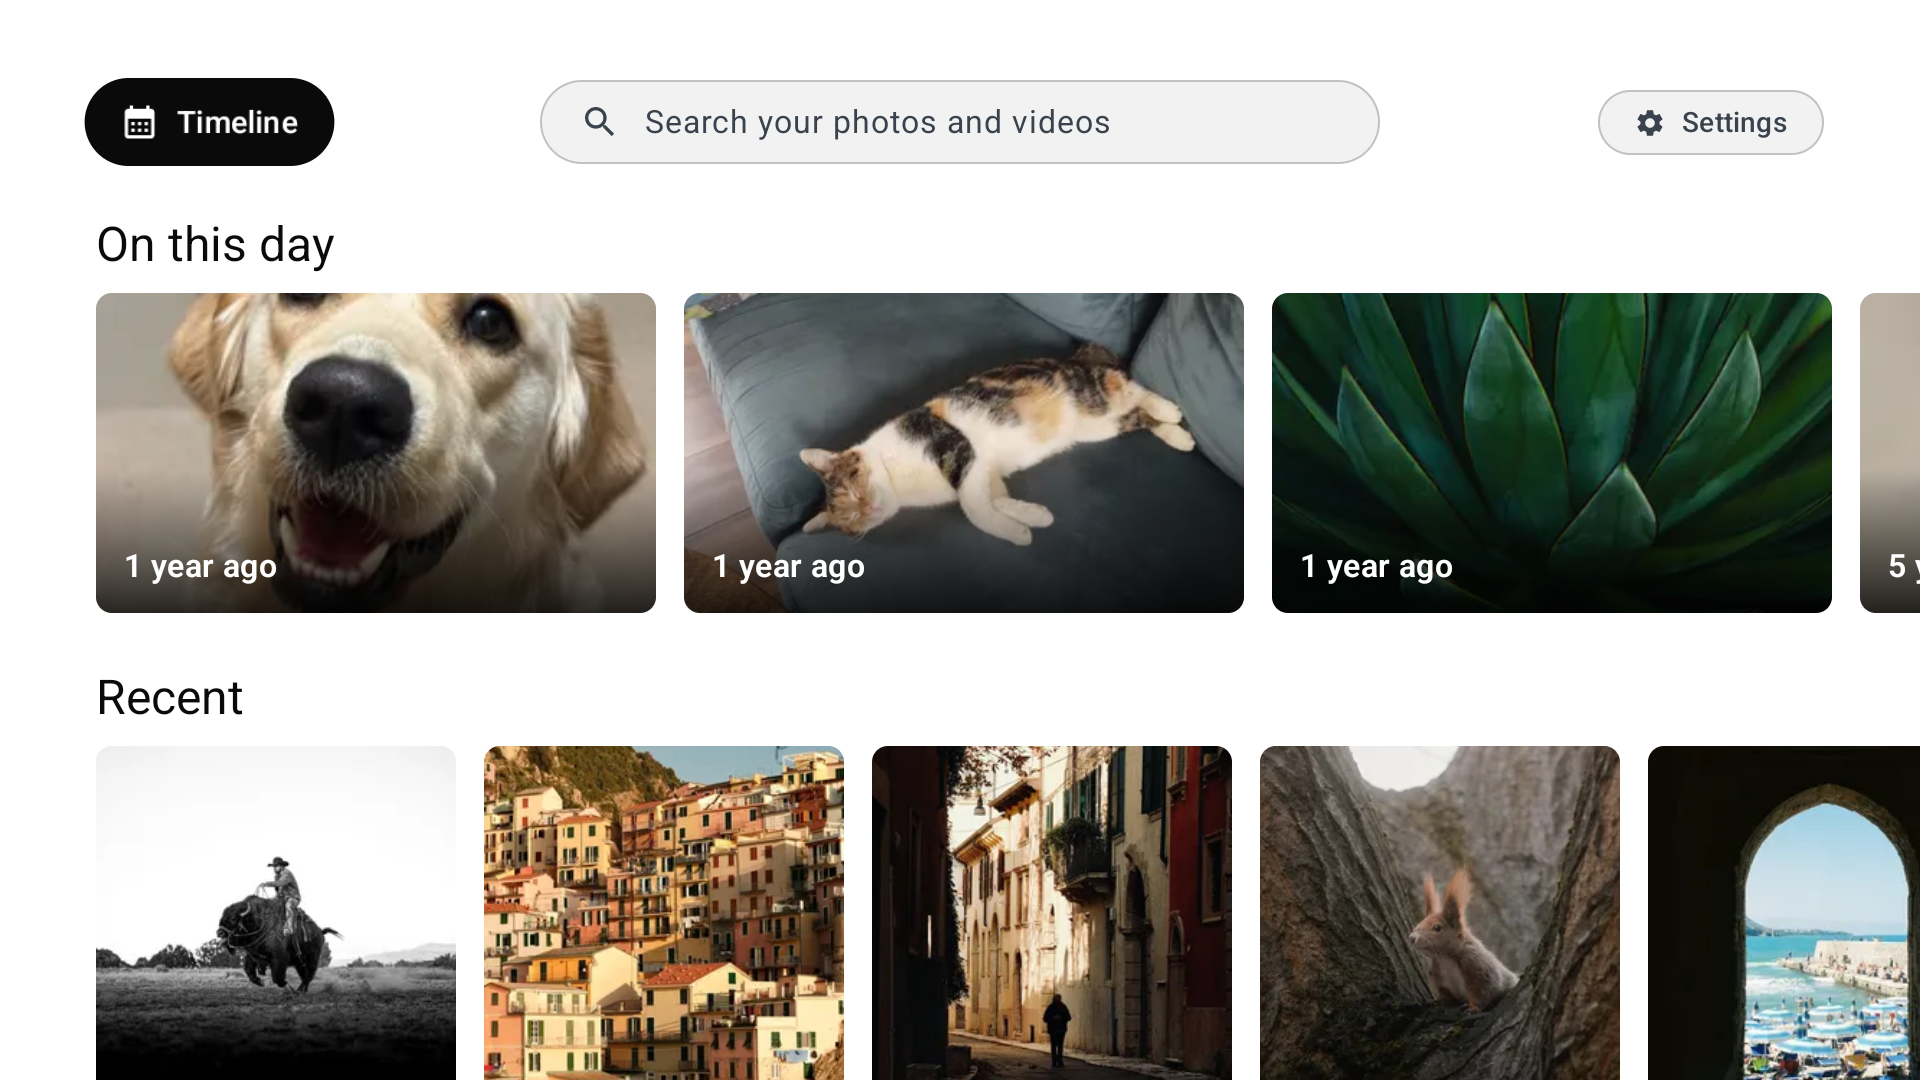
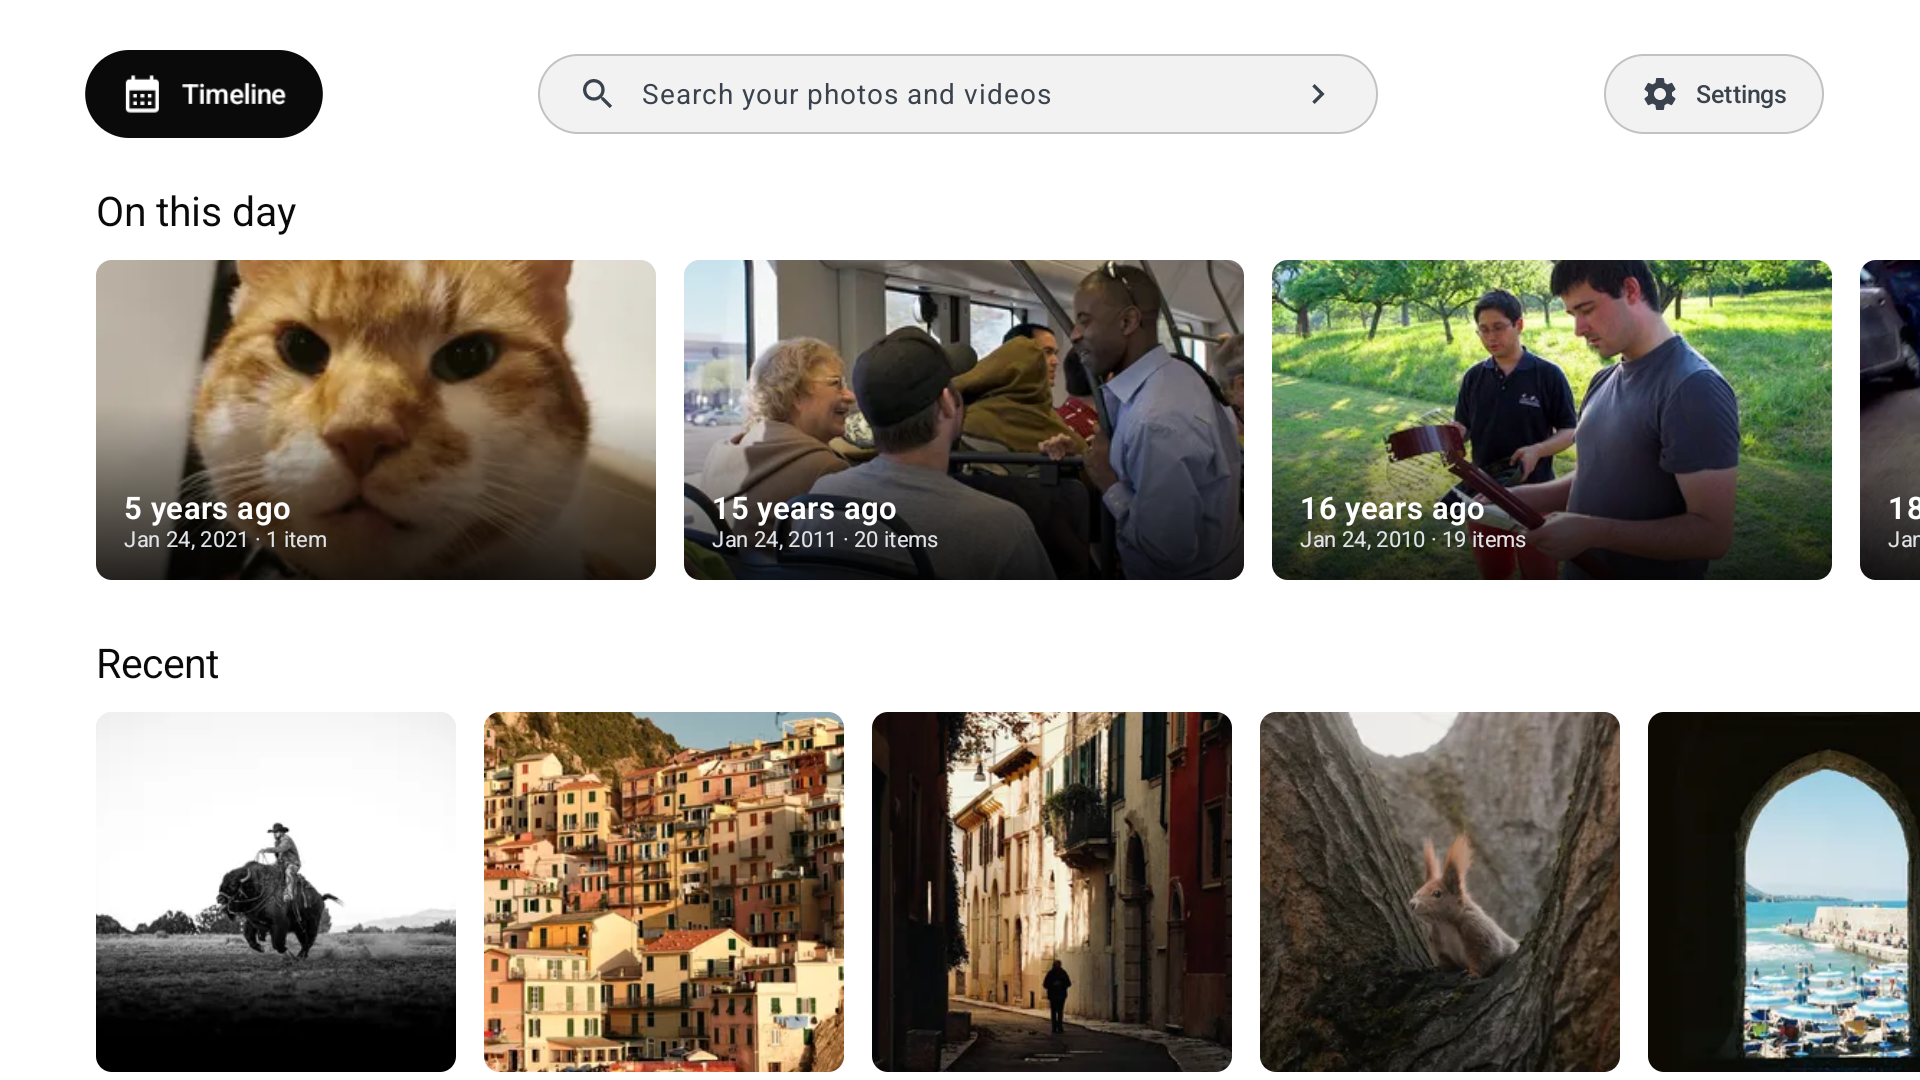
Refresh README screenshots for the current UI
Retaken against the public Immich demo (v3.3.5): Home shows the memory cards'
date/count line and the aligned header, the viewer panel is opened via the OK
action bar. README captions updated to match (Show details, Places rail).

diff --git a/README.md b/README.md
@@ -21,7 +21,7 @@ A native **Android TV / Google TV** client for a self-hosted [Immich](https://im
 
 The app ships with **dark and light themes**, styled after Immich's own colors.
 
-**Home** — memories, recent, albums, people, and videos rails
+**Home** — memories, recent, albums, people, places, and videos rails
 
 | Dark | Light |
 | --- | --- |
@@ -33,7 +33,7 @@ The app ships with **dark and light themes**, styled after Immich's own colors.
 | --- | --- |
 | ![Timeline, dark](docs/screenshots/timeline.png) | ![Timeline, light](docs/screenshots/timeline-light.png) |
 
-**Viewer** — full‑screen photo with the metadata panel (OK on a photo). The viewer stays dark in both themes, as photos and videos look best on black.
+**Viewer** — full‑screen photo with the metadata panel (OK → Show details). The viewer stays dark in both themes, as photos and videos look best on black.
 
 ![Viewer with metadata panel](docs/screenshots/viewer-metadata.png)
 
@@ -41,7 +41,7 @@ The app ships with **dark and light themes**, styled after Immich's own colors.
 
 ## In detail
 
-- **Home** — an "On this day" memories row plus Recent, Albums, People, and Videos rails, and a Settings menu (change server, refresh, slideshow settings, logout, about).
+- **Home** — an "On this day" memories row plus Recent, Albums, People, Places, and Videos rails, and a Settings menu (change server, refresh, slideshow settings, logout, about).
 - **Timeline** — the whole library in one smooth grid, driven by Immich's month "buckets": all month boundaries are known up front, each month's assets load lazily as you scroll, with prefetch and an LRU that evicts far‑off months. A year scrubber on the right edge jumps across a multi‑year library instantly (and always shows the year you're in).
 - **Search** — a search bar at the top of Home runs Immich's smart (CLIP) search: results match by meaning and recognized objects/scenes, not filenames. Pick any result to open it in the viewer.
 - **Albums, People & Places** — browse an album, a person, or a geographic place (city) in the same grid. Places uses Immich's location data ("Explore").
